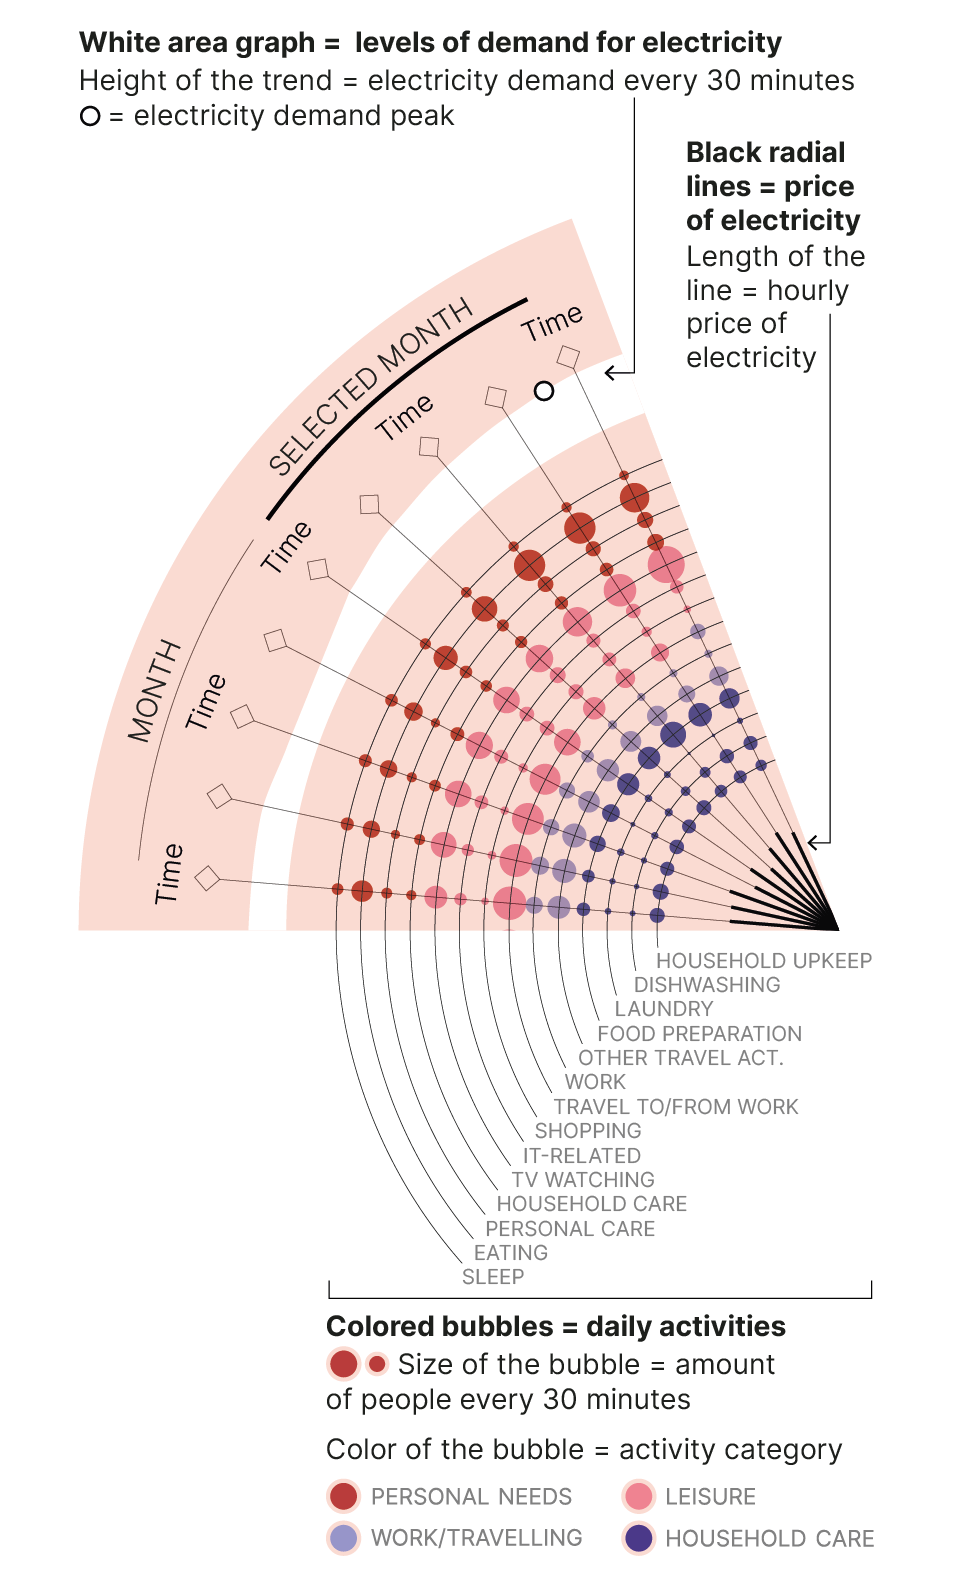
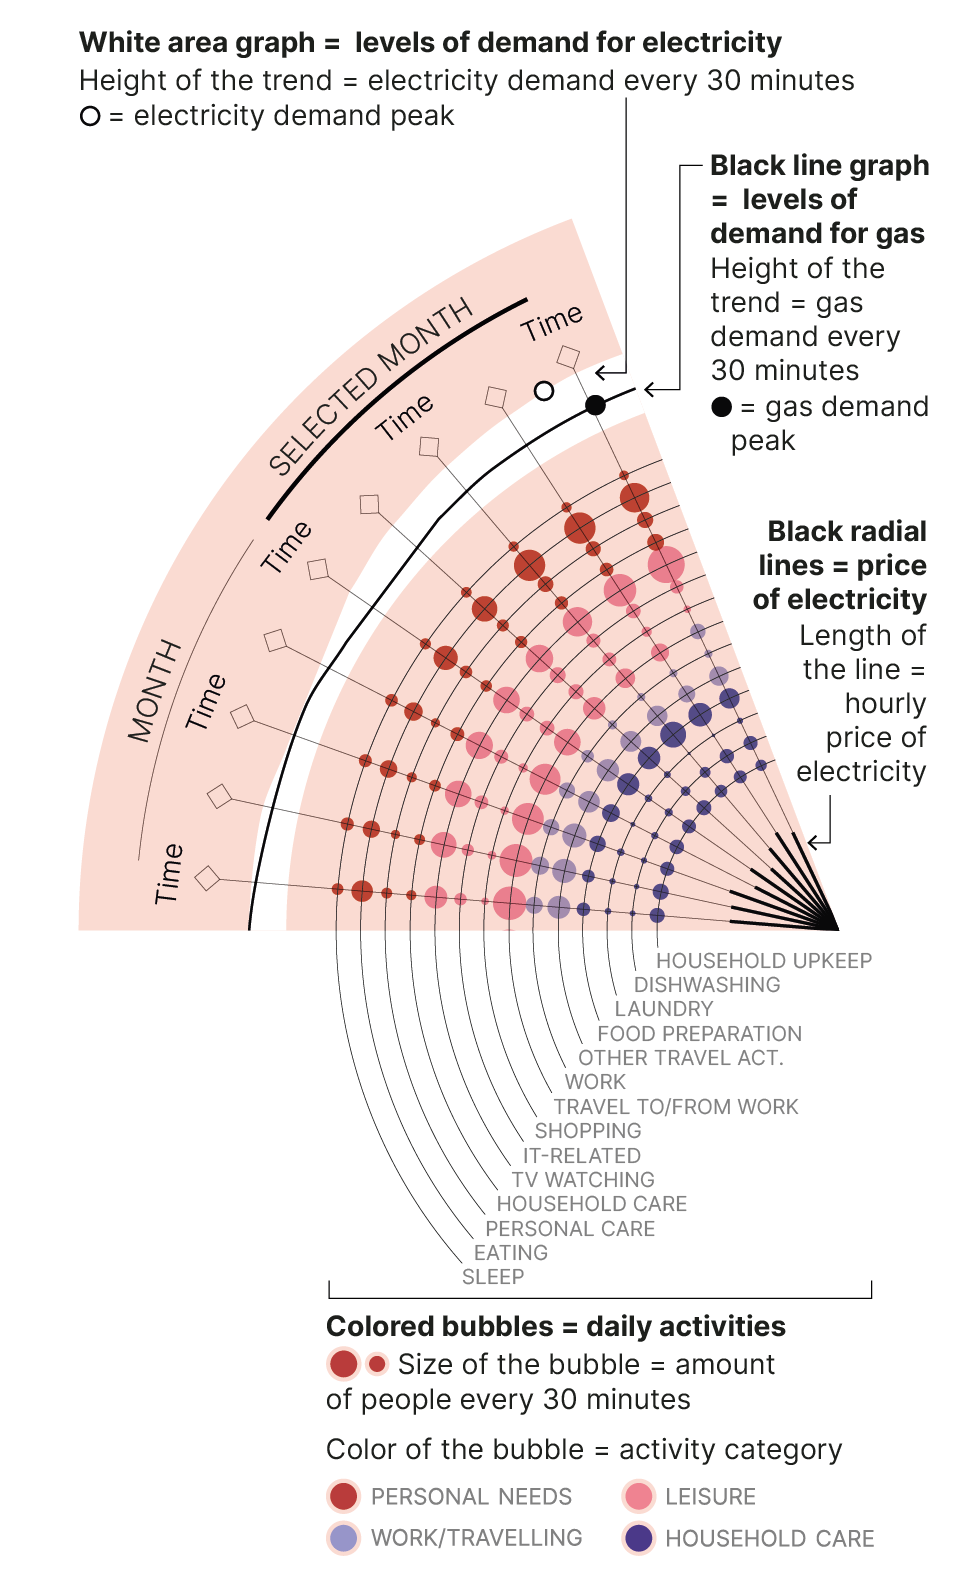
new legends with gas demand

diff --git a/components/Radar/RadarYear.jsx b/components/Radar/RadarYear.jsx
@@ -41,7 +41,7 @@ const tooltipStyles = {
   fontSize: "12px",
   lineHeight: "16px",
   textAlign: "left",
-  width: "180px",
+  width: "210px",
   zIndex: 9999,
 };
 
